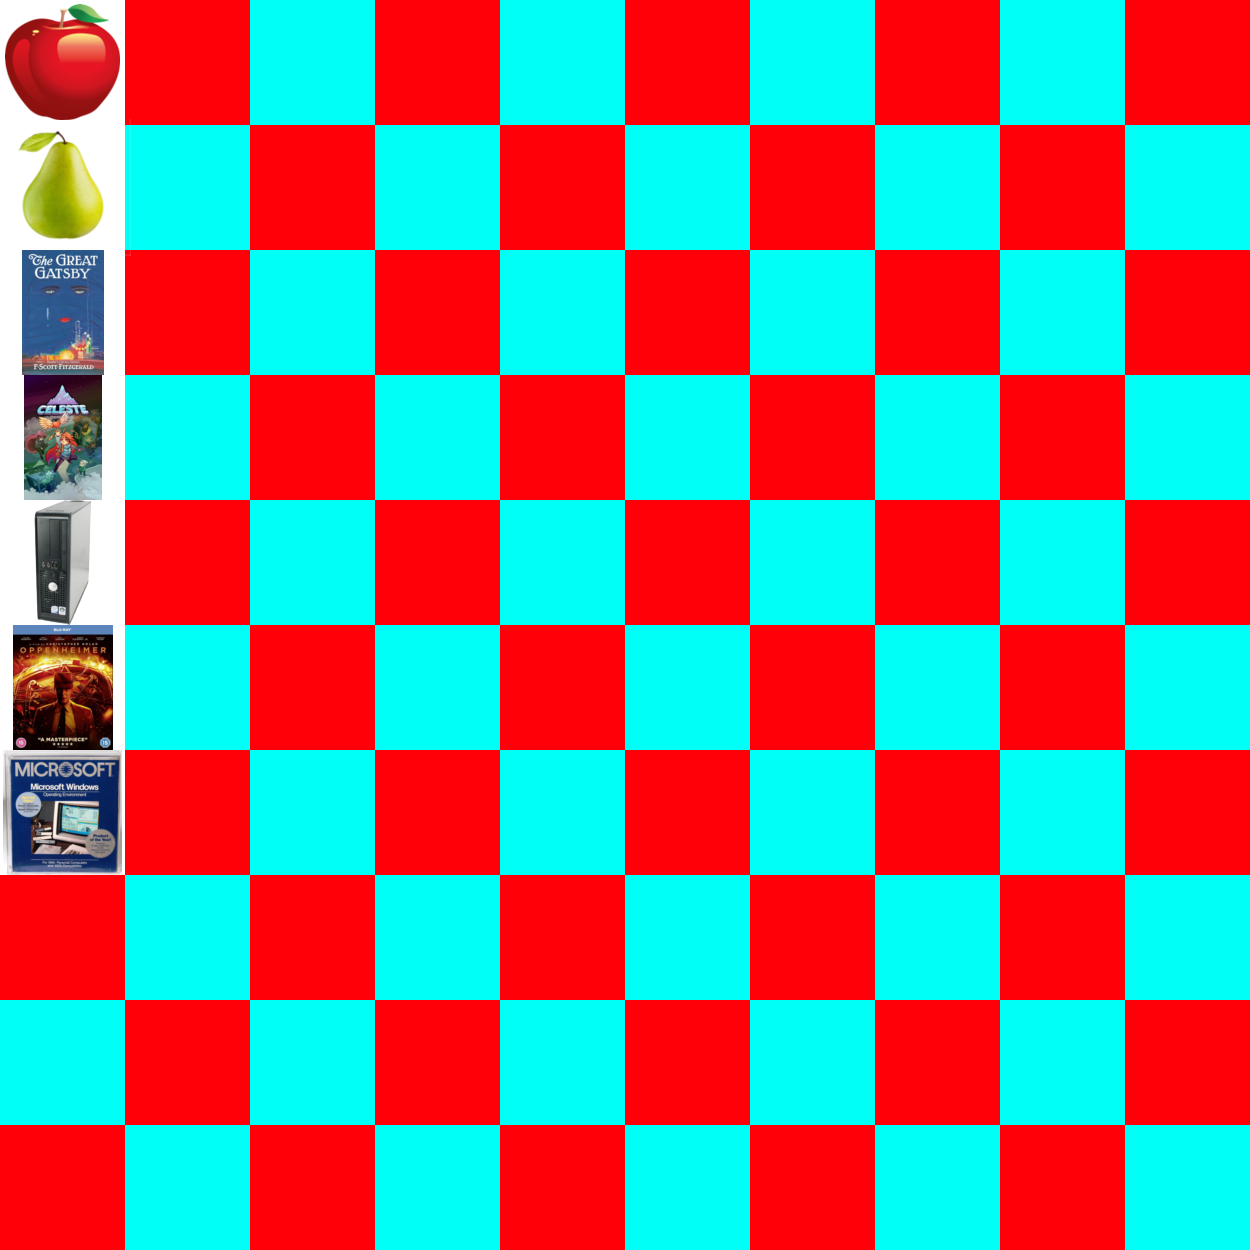
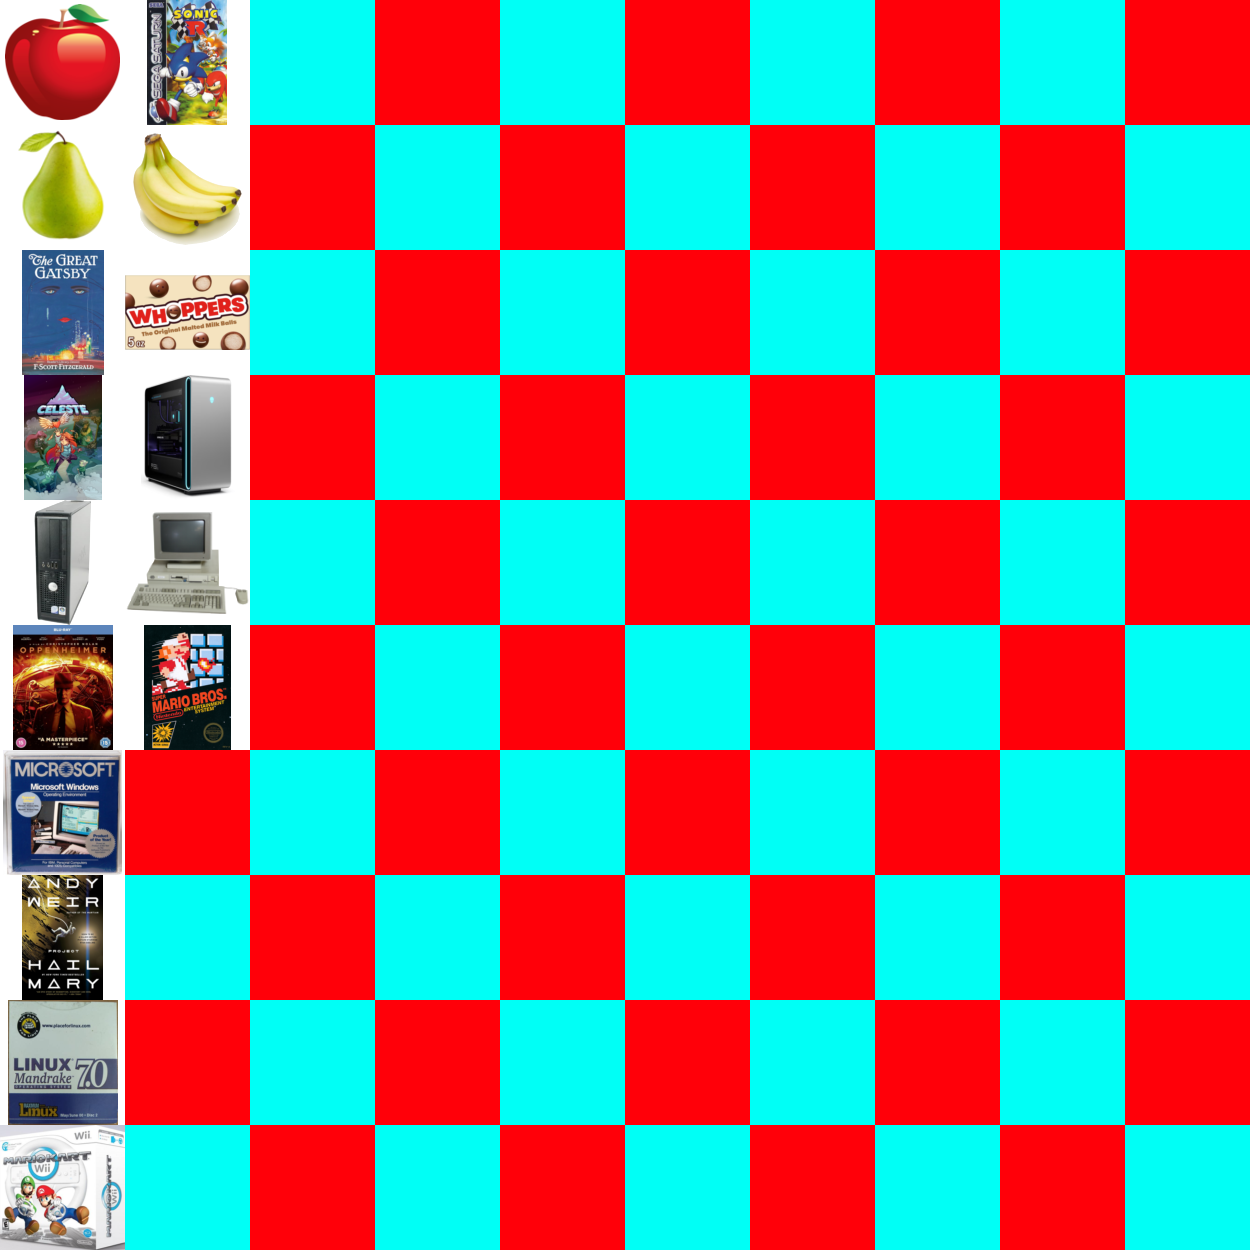
Added more items

Changed region(s): [[0.0936, 0.0, 0.2184, 0.624], [0.0, 0.6864, 0.1248, 1.0]]

diff --git a/src/frames/ShoppingFrame.java b/src/frames/ShoppingFrame.java
@@ -30,24 +30,42 @@ public class ShoppingFrame extends JFrame {
         bar = new ShoppingMenuBar(this);
 
         items = new Item[]{
-                new FoodItem(this, 0, "Apple", 0.99f, 0.017f, 4.5f, 150,
-                        2.f, 0.f, 0.f, 0.f, 0.f, 0.f, "1 Apple"),
-                new FoodItem(this, 1, "Pear", 1.59f, 2.3f, 4.4f, 150,
-                        2.f, 0.f, 0.f, 0.f, 0.f, 0.f, "1 Pear"),
-                new BookItem(this, 2, "The Great Gatsby", 7.99f, 0.1899f, 3.5f,
-                        "F. Scott Fitzgerald", "Fiction", "Paperback", 162, 1925),
+                new FoodItem(this, 0, "Apple", 0.99f, 0.017f, 4.5f, 94,
+                        18.9f, 0.5f, 0.3f, 25.1f, 1.3f, 0.f, "1 Apple"),
+                new ComputerItem(this, 13, "Area-51 Desktop", 6999.99f, 35.f, 0.f,
+                        "Intel Core Ultra 9 285K", "NVIDIA RTX 5090 32GB", 64.f, "Dual Channel DDR5", 4000.f,
+                        "M.2 PCIe SSD", "Windows 11 Home", "Alienware (Dell)"),
+                new FoodItem(this, 11, "Bananas", .99f, 1.f, 4.f, 105,
+                        14.4f, 1.3f, 0.3f, 27f, 1.2f, 0.f, "1 Banana"),
                 new VideoGameItem(this, 3, "Celeste", 19.99f, 0.f, 5.f,
                         "Windows, Linux, Mac", "EXOK Games", "Maddy Makes Games Inc.", 2018, 1.2f, "Intel Core i3 M380",
-                        "OpenGL 3.0+ Compatible", 2.0f, "Digital"),
-                new ComputerItem(this, 4, "Optiplex 760", 684.78f, 5.f, 0.5f,
-                        "Intel Core 2 Duo", "Intel HD Graphics", 4.f, "DDR2 Single Channel", 80.f, "Mechanical Hard Drive",
-                        "Microsoft Windows 7", "Dell"),
+                        "OpenGL 3.0+ Compatible", 2.f, "Digital"),
+                new ComputerItem(this, 14, "PS/2 Model 30/286", 2000f, 7.f, 4.3f,
+                        "Intel 80286", "VGA", 0.016f, "Soldered", 0.04f, "Mechanical Hard Drive",
+                        "IBM AIX PS/2 v1.3", "IBM"),
+                new SoftwareItem(this, 8, "Mandrake Linux 7", 159.99f, 0.5f, 3.5f,
+                        "Mandriva", "Open source", "Various", "Linux",
+                        "amd64, i686, i586, i486, i386, sparc64, ppc64, MIPS, arm, ia64", "Operating System", "2000", "2000"),
+                new VideoGameItem(this, 9, "Mario Kart Wii", 59.99f, 0.1f, 4.f,
+                        "Nintendo Wii", "Nintendo EAD", "Nintendo", 2008, 4.4f, "Physical"),
+                new FoodItem(this, 1, "Pear", 1.59f, 0.17f, 4.4f, 100,
+                        16.f, 1.f, 0.f, 26.f, 0.f, 0.f, "1 Pear"),
+                new BookItem(this, 7, "Project Hail Mary", 13.98f, 1.f, 4.7f,
+                        "Andy Weir", "Sci-Fi", "Paperback", 497, 2022),
+                new VideoGameItem(this, 10, "Sonic R", 79.99f, 0.5f, 3.1f,
+                        "Sega Saturn", "Traveller's Tales", "Sega", 1997, 1.f, "Physical"),
+                new VideoGameItem(this, 15, "Super Mario Bros.", 4.99f, 0.2f, 3.9f,
+                        "Nintendo Entertainment System", "Nintendo R&D4", "Nintendo", 1985, 0.00004f, "Physical"),
+                new BookItem(this, 2, "The Great Gatsby", 7.99f, 0.1899f, 3.5f,
+                        "F. Scott Fitzgerald", "Fiction", "Paperback", 162, 1925),
                 new MovieItem(this, 5, "Oppenheimer", 18.99f, 0.1f, 4.5f,
                         "Christopher Nolan", "Christopher Nolan, Kai Bird, Martin Sherwin", "Cillian Murphy, Emily Blunt, Matt Damon",
                         "R", 2023, 3.f, "Blu-Ray"),
-                new SoftwareItem(this, 6, "Windows 1.0", 99.99f, 0.25f, 2.5f,
-                        "Microsoft", "Closed source", "Proprietary", "MS-DOS", "x86-32, x86-16", "Operating Environment",
-                        "November 1985", "April 1987"),
+                new ComputerItem(this, 4, "Optiplex 760", 684.78f, 5.f, 0.5f,
+                        "Intel Core 2 Duo", "Intel HD Graphics", 4.f, "DDR2 Single Channel", 80.f, "Mechanical Hard Drive",
+                        "Microsoft Windows 7", "Dell"),
+                new FoodItem(this, 12, "Whoppers", 1.f, .1f, 4.f, 140,
+                        18.f, 0.f, 5.f, 23.f, 80.f, 0.f, "13 pieces"),
                 new SoftwareItem(this, 6, "Windows 1.0", 99.99f, 0.25f, 2.5f,
                         "Microsoft", "Closed source", "Proprietary", "MS-DOS", "x86-32, x86-16", "Operating Environment",
                         "November 1985", "April 1987"),

diff --git a/src/items/VideoGameItem.java b/src/items/VideoGameItem.java
@@ -14,6 +14,8 @@ public class VideoGameItem extends Item {
     private float minimumRAMGigabytes;
     private String releaseType;
 
+    private boolean unknownSpecs;
+
     public VideoGameItem(ShoppingFrame shoppingFrame, int img, String name, float price, float weightKilograms, float rating,
                          String platform, String developer, String publisher, int year, float sizeGigabytes, String minimumCPU, String minimumGPU, float minimumRAMGigabytes,
                          String releaseType) {
@@ -28,12 +30,35 @@ public class VideoGameItem extends Item {
         this.minimumRAMGigabytes = Math.max(0.f, minimumRAMGigabytes);
         this.releaseType = releaseType;
 
+        unknownSpecs = false;
+
+        category = "Video Game";
+    }
+
+    public VideoGameItem(ShoppingFrame shoppingFrame, int img, String name, float price, float weightKilograms, float rating,
+                         String platform, String developer, String publisher, int year, float sizeGigabytes, String releaseType) {
+        super(shoppingFrame, img, name, price, weightKilograms, rating);
+        this.platform = platform;
+        this.developer = developer;
+        this.publisher = publisher;
+        this.year = year;
+        this.sizeGigabytes = Math.max(0.f, sizeGigabytes);
+        this.releaseType = releaseType;
+
+        unknownSpecs = true;
+
         category = "Video Game";
     }
 
     @Override
     public String getInformation() {
-        return String.format("Platform: %s\nDeveloper: %s\nPublisher: %s\nYear: %d\nSize: %s\nMinimum CPU: %s\nMinimum GPU: %s\nMinimum RAM: %s\nRelease Type: %s",
+        return (unknownSpecs) ?
+                String.format("Platform: %s\nDeveloper: %s\nPublisher: %s\nYear: %d\nSize: %s\nRelease Type: %s",
+                platform, developer, publisher, year,
+                (sizeGigabytes >= 1) ? String.format("%.2fGB", sizeGigabytes) : String.format("%.2fMB", sizeGigabytes * 1000),
+                releaseType) :
+
+                String.format("Platform: %s\nDeveloper: %s\nPublisher: %s\nYear: %d\nSize: %s\nMinimum CPU: %s\nMinimum GPU: %s\nMinimum RAM: %s\nRelease Type: %s",
                 platform, developer, publisher, year,
                 (sizeGigabytes >= 1) ? String.format("%.2fGB", sizeGigabytes) : String.format("%.2fMB", sizeGigabytes * 1000),
                 minimumCPU, minimumGPU,

diff --git a/src/items/Item.java b/src/items/Item.java
@@ -177,7 +177,7 @@ public abstract class Item extends JPanel {
     }
 
     public String getPriceFormatted() {
-        return String.format("$%.2f", price);
+        return String.format("$%,.2f", price);
     }
 
     public String getWeightFormatted() {
